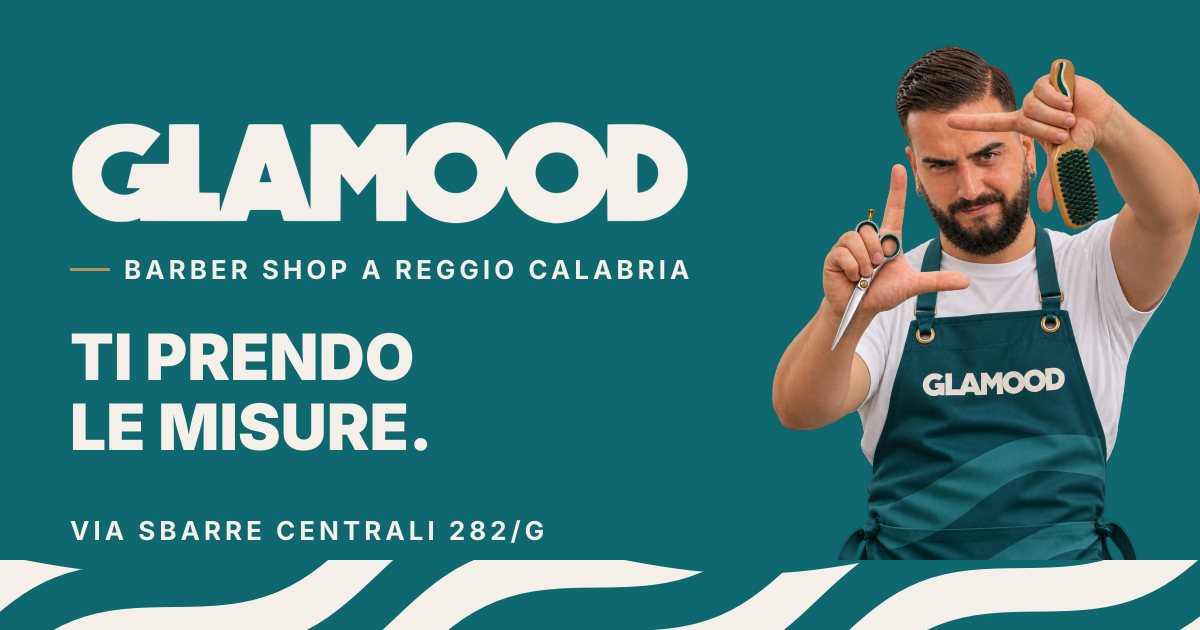
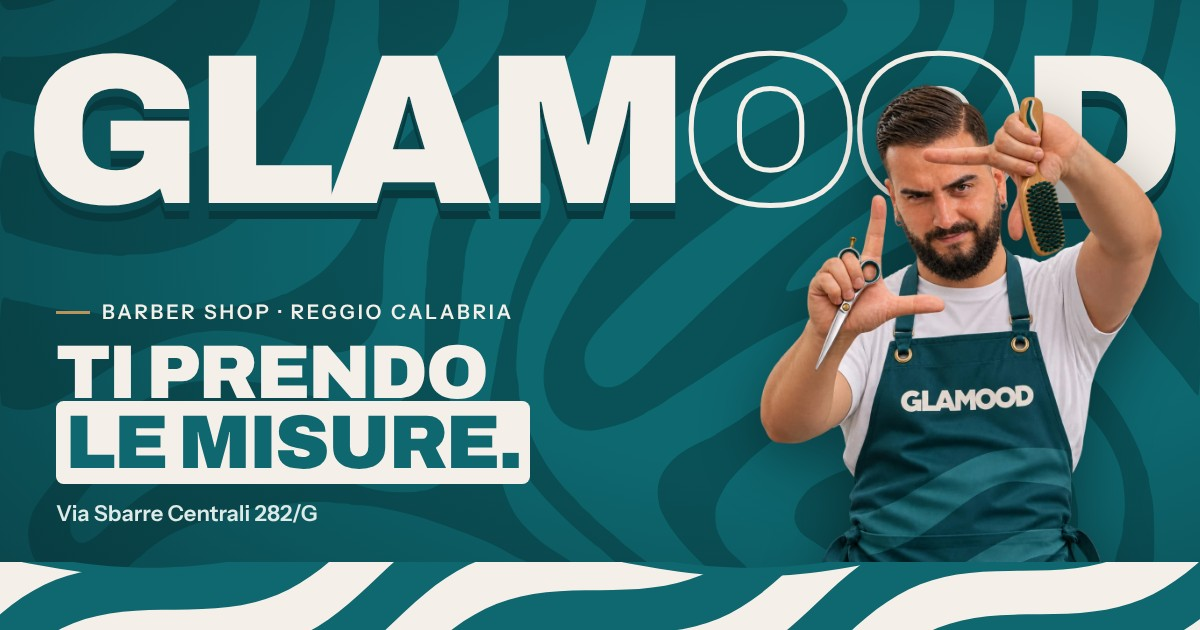
Nuova immagine di anteprima del link (Open Graph) con i font e lo stile del sito
Claude-Session: https://claude.ai/code/session_01FJsy7QrKvKXY8MpGh3QYpc

diff --git a/tools/og.html b/tools/og.html
@@ -1,0 +1,26 @@
+<!doctype html><html><head><meta charset="utf-8"><style>
+@font-face{font-family:A;src:url(../public/fonts/archivo-latin-900-normal.woff2)}
+@font-face{font-family:I;src:url(../public/fonts/instrument-sans-latin-600-normal.woff2)}
+*{margin:0;box-sizing:border-box}
+body{width:1200px;height:630px;overflow:hidden;background:#0F6870;position:relative;font-family:I}
+.bg{position:absolute;inset:0;background:url(../public/img/svg/pattern-liquido-tono.svg) center/cover;opacity:.9}
+.vig{position:absolute;inset:0;background:radial-gradient(90% 90% at 70% 40%,transparent 40%,rgb(6 40 44 / .55))}
+.giant{position:absolute;left:0;right:0;text-align:center;top:46px;font:900 214px/.8 A;letter-spacing:-.045em;color:#F4EFE8;text-transform:uppercase;text-shadow:0 8px 0 #0A4A50,0 16px 0 #08393E;white-space:nowrap}
+.giant span{color:transparent;-webkit-text-stroke:5px #F4EFE8;text-shadow:none}
+.fab{position:absolute;right:30px;bottom:0;height:560px;filter:drop-shadow(0 20px 30px rgb(0 0 0 / .4))}
+.band{position:absolute;left:0;right:0;bottom:-2px;height:70px;background:url(../public/img/svg/onde-bande-striscia.svg) center/cover}
+.copy{position:absolute;left:56px;top:300px;color:#F4EFE8}
+.k{display:flex;align-items:center;gap:12px;font:600 20px I;letter-spacing:.14em;text-transform:uppercase}
+.k:before{content:"";width:34px;height:3px;background:#B8935A}
+h1{font:900 76px/.92 A;text-transform:uppercase;letter-spacing:-.03em;margin-top:14px}
+h1 em{font-style:normal;color:#0F6870;background:#F4EFE8;padding:0 .12em;border-radius:.1em}
+.addr{margin-top:22px;font:600 22px I;color:#DDEAE7}
+.stamp{position:absolute;left:470px;top:330px;width:120px;height:120px;border-radius:50%;background:#F4EFE8;display:grid;place-items:center;box-shadow:0 14px 30px -12px rgb(0 0 0 / .5)}
+.stamp img{width:58%}
+</style></head><body>
+<div class="bg"></div><div class="vig"></div>
+<div class="giant">Glam<span>oo</span>d</div>
+<img class="fab" src="../public/img/hero/fabio-foto-960.webp">
+<div class="copy"><div class="k">Barber shop · Reggio Calabria</div><h1>Ti prendo<br><em>le misure.</em></h1><div class="addr">Via Sbarre Centrali 282/G</div></div>
+<div class="band"></div>
+</body></html>
